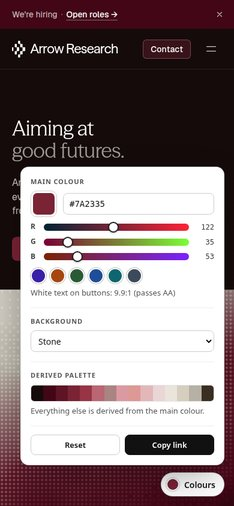
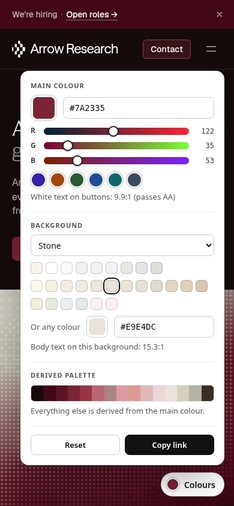
Custom version: more background colours and a free background picker

Changed region(s): [[0.0598, 0.1186, 0.9872, 0.7115]]

diff --git a/custom/palette.js b/custom/palette.js
@@ -27,18 +27,37 @@
     ["Navy", "1f4e99"], ["Teal", "0f6670"], ["Slate", "3d4a5c"],
   ];
   // Each background is the colour that replaces the original page beige
-  // (#f8f3eb); the stone/umber tones follow it. "main" tints it with the main hue.
+  // (#f8f3eb); the stone/umber tones follow it. A number instead of a hex tints
+  // the page with the main colour's hue at that OKLCH chroma. Any other hex can
+  // be chosen with the panel's background picker (state.bg is then the hex).
   var BG_PRESETS = [
-    ["original", "Beige (original)", null],
-    ["warm-grey", "Warm grey", "f3f2ef"],
-    ["grey", "Neutral grey", "f3f3f3"],
-    ["cool-grey", "Cool grey", "f0f2f5"],
-    ["greige", "Greige", "efebe5"],
-    ["stone", "Stone", "e9e4dc"],
-    ["taupe", "Taupe", "e7e0d7"],
-    ["mushroom", "Mushroom", "e1d9ce"],
-    ["kraft", "Kraft brown", "e3d5c3"],
-    ["tinted", "Tinted from main colour", "main"],
+    ["original", "Beige (original)", null, ""],
+    ["white", "White", "ffffff", "Whites and greys"],
+    ["paper", "Paper white", "fafaf8", "Whites and greys"],
+    ["warm-grey", "Warm grey", "f3f2ef", "Whites and greys"],
+    ["grey", "Neutral grey", "f3f3f3", "Whites and greys"],
+    ["cool-grey", "Cool grey", "f0f2f5", "Whites and greys"],
+    ["dove", "Dove grey", "e8e8e6", "Whites and greys"],
+    ["silver", "Silver", "e4e5e7", "Whites and greys"],
+    ["pebble", "Pebble", "dcdcd9", "Whites and greys"],
+    ["ivory", "Ivory", "fbf8ef", "Creams and browns"],
+    ["cream", "Cream", "f6f0e1", "Creams and browns"],
+    ["linen", "Linen", "f2ece2", "Creams and browns"],
+    ["greige", "Greige", "efebe5", "Creams and browns"],
+    ["oat", "Oatmeal", "ede6d9", "Creams and browns"],
+    ["stone", "Stone", "e9e4dc", "Creams and browns"],
+    ["sand", "Sand", "ebe2d1", "Creams and browns"],
+    ["taupe", "Taupe", "e7e0d7", "Creams and browns"],
+    ["mushroom", "Mushroom", "e1d9ce", "Creams and browns"],
+    ["kraft", "Kraft brown", "e3d5c3", "Creams and browns"],
+    ["biscuit", "Biscuit", "dfd0b8", "Creams and browns"],
+    ["tan", "Tan", "d8c7ae", "Creams and browns"],
+    ["khaki", "Khaki", "f1eedc", "Soft tints"],
+    ["sage", "Sage", "e7ebe0", "Soft tints"],
+    ["mist", "Mist blue", "e8eef2", "Soft tints"],
+    ["fog", "Fog", "e5e9ec", "Soft tints"],
+    ["tinted", "Tinted from main colour", 0.012, "From the main colour"],
+    ["tinted-strong", "Tinted from main colour, stronger", 0.03, "From the main colour"],
   ];
 
   // --- colour maths: sRGB <-> OKLab/OKLCH ------------------------------------
@@ -114,12 +133,15 @@
     return out;
   }
 
+  function presetFor(id) { return BG_PRESETS.filter(function (p) { return p[0] === id; })[0]; }
+
   function deriveBackground(id, main) {
-    var preset = BG_PRESETS.filter(function (p) { return p[0] === id; })[0] || BG_PRESETS[0];
+    var value = validHex(id) || (presetFor(id) || BG_PRESETS[0])[2];
     var out = {};
-    if (!preset[2]) { BACKGROUND.forEach(function (k) { out[k] = k; }); return out; }
+    if (!value) { BACKGROUND.forEach(function (k) { out[k] = k; }); return out; }
     var page = ORIG[PAGE];
-    var target = preset[2] === "main" ? [page[0], 0.012, hexToOklch(main)[2]] : hexToOklch(preset[2]);
+    var tint = typeof value === "number";
+    var target = tint ? [page[0], value, hexToOklch(main)[2]] : hexToOklch(value);
     // the other tones keep their lightness offset, chroma ratio and hue offset
     // from the page colour (umber, a dark overlay tint, keeps its lightness)
     BACKGROUND.forEach(function (k) {
@@ -128,7 +150,7 @@
       var C = Math.min(0.08, o[1] * target[1] / page[1]);
       out[k] = oklchToHex(L, C, o[2] + target[2] - page[2]);
     });
-    if (preset[2] !== "main") out[PAGE] = preset[2];
+    if (!tint) out[PAGE] = value;
     return out;
   }
 
@@ -170,7 +192,10 @@
 
   // --- state: ?main=&bg= in the URL, else localStorage, else the original ------------
   function validHex(h) { return typeof h === "string" && /^[0-9a-f]{6}$/i.test(h) ? h.toLowerCase() : null; }
-  function validBg(id) { return BG_PRESETS.some(function (p) { return p[0] === id; }) ? id : null; }
+  function validBg(id) {
+    if (typeof id !== "string") return null;
+    return presetFor(id) ? id : validHex(id.replace("#", ""));
+  }
   function load() {
     var state = { main: DEFAULT.main, bg: DEFAULT.bg };
     try {
@@ -211,9 +236,9 @@
     "h3{margin:0 0 8px;font-size:11px;font-weight:700;letter-spacing:.08em;text-transform:uppercase;color:#555}",
     "section+section{margin-top:16px;padding-top:14px;border-top:1px solid #eee}",
     ".row{display:flex;align-items:center;gap:10px}",
-    "input[type=color]{width:44px;height:44px;padding:0;border:1px solid #ccc;border-radius:10px;background:none;cursor:pointer}",
+    "input[type=color]{flex:none;width:44px;height:44px;padding:0;border:1px solid #ccc;border-radius:10px;background:none;cursor:pointer}",
     "input[type=color]::-webkit-color-swatch-wrapper{padding:3px}input[type=color]::-webkit-color-swatch{border:none;border-radius:7px}",
-    ".hex{flex:1;height:36px;padding:0 10px;border:1px solid #ccc;border-radius:8px;font:500 14px ui-monospace,Menlo,monospace;color:#111}",
+    ".hex{flex:1;min-width:0;height:36px;padding:0 10px;border:1px solid #ccc;border-radius:8px;font:500 14px ui-monospace,Menlo,monospace;color:#111}",
     ".slider{display:grid;grid-template-columns:14px 1fr 34px;align-items:center;gap:8px;margin-top:8px}",
     ".slider b{font-size:12px;color:#444}.slider output{font:12px ui-monospace,Menlo,monospace;text-align:right;color:#333}",
     "input[type=range]{-webkit-appearance:none;appearance:none;width:100%;height:12px;border-radius:6px;margin:0;cursor:pointer}",
@@ -222,6 +247,10 @@
     ".presets{display:flex;flex-wrap:wrap;gap:6px;margin-top:10px}",
     ".presets button{width:26px;height:26px;border-radius:50%;border:2px solid #fff;box-shadow:0 0 0 1px rgba(0,0,0,.25);cursor:pointer;padding:0}",
     ".presets button[aria-pressed=true]{box-shadow:0 0 0 2px #111}",
+    ".bg-swatches{gap:5px}.bg-swatches i{flex-basis:100%;height:0}.bg-swatches button{width:20px;height:20px;border-radius:6px;border:1px solid rgba(0,0,0,.18);box-shadow:none}",
+    ".bg-swatches button[aria-pressed=true]{box-shadow:0 0 0 2px #fff,0 0 0 4px #111}",
+    ".row+.row,.bg-swatches+.row{margin-top:10px}.row .label{flex:0 0 auto;color:#555}",
+    ".row input.small[type=color]{width:36px;height:36px;border-radius:8px}",
     "select{width:100%;height:36px;padding:0 8px;border:1px solid #ccc;border-radius:8px;background:#fff;font-size:14px;color:#111}",
     ".strip{display:grid;grid-template-columns:repeat(15,1fr);height:28px;border-radius:6px;overflow:hidden;border:1px solid rgba(0,0,0,.1)}",
     ".strip span{display:block}",
@@ -245,7 +274,12 @@
       '<div class="row"><input type="color" aria-label="Pick main colour">' +
       '<input class="hex" maxlength="7" spellcheck="false" aria-label="Hex code"></div>' + sliders +
       '<div class="presets"></div><div class="note contrast"></div></section>' +
-      "<section><h3>Background</h3><select></select></section>" +
+      "<section><h3>Background</h3><select></select>" +
+      '<div class="presets bg-swatches"></div>' +
+      '<div class="row"><span class="label">Or any colour</span>' +
+      '<input type="color" class="small bg-picker" aria-label="Pick background colour">' +
+      '<input class="hex bg-hex" maxlength="7" spellcheck="false" aria-label="Background hex code"></div>' +
+      '<div class="note bg-contrast"></div></section>' +
       '<section><h3>Derived palette</h3><div class="strip"></div>' +
       '<div class="note">Everything else is derived from the main colour.</div></section>' +
       '<section class="actions"><button class="reset">Reset</button><button class="primary copy">Copy link</button></section>' +
@@ -255,10 +289,24 @@
     var toggle = $(".toggle"), panel = $(".panel"), picker = $("input[type=color]"), hex = $(".hex");
     var ranges = Array.prototype.slice.call(root.querySelectorAll("input[type=range]"));
     var select = $("select"), strip = $(".strip"), presets = $(".presets");
+    var bgSwatches = $(".bg-swatches"), bgPicker = $(".bg-picker"), bgHex = $(".bg-hex");
 
+    var groups = {};
     BG_PRESETS.forEach(function (p) {
-      var o = document.createElement("option"); o.value = p[0]; o.textContent = p[1]; select.appendChild(o);
+      var o = document.createElement("option"); o.value = p[0]; o.textContent = p[1];
+      if (p[3] && !groups[p[3]]) {
+        groups[p[3]] = document.createElement("optgroup"); groups[p[3]].label = p[3]; select.appendChild(groups[p[3]]);
+      }
+      (groups[p[3]] || select).appendChild(o);
+      var b = document.createElement("button");
+      b.title = p[1]; b.setAttribute("aria-label", p[1]); b.dataset.bg = p[0];
+      b.addEventListener("click", function () { set({ bg: p[0] }); });
+      if (p[0] === "ivory" || p[0] === "khaki") bgSwatches.appendChild(document.createElement("i"));
+      bgSwatches.appendChild(b);
     });
+    var customOpt = document.createElement("option");
+    customOpt.value = "custom"; customOpt.textContent = "Custom colour";
+    select.appendChild(customOpt);
     MAIN_PRESETS.forEach(function (p) {
       var b = document.createElement("button");
       b.title = p[0]; b.setAttribute("aria-label", p[0]); b.style.background = "#" + p[1]; b.dataset.hex = p[1];
@@ -277,10 +325,22 @@
         r.style.background = "linear-gradient(to right,#" + rgbToHex(lo) + ",#" + rgbToHex(hi) + ")";
         r.nextElementSibling.textContent = rgb[i];
       });
-      select.value = state.bg;
+      var custom = !presetFor(state.bg);
+      select.value = custom ? "custom" : state.bg;
+      bgPicker.value = "#" + current[PAGE];
+      if (root.activeElement !== bgHex) bgHex.value = "#" + current[PAGE].toUpperCase();
       Array.prototype.forEach.call(presets.children, function (b) {
         b.setAttribute("aria-pressed", String(b.dataset.hex === state.main));
       });
+      Array.prototype.forEach.call(bgSwatches.querySelectorAll("button"), function (b) {
+        b.style.background = "#" + deriveBackground(b.dataset.bg, state.main)[PAGE];
+        b.setAttribute("aria-pressed", String(b.dataset.bg === state.bg));
+      });
+      var t = contrast(current[INK], current[PAGE]);
+      var bgNote = $(".bg-contrast");
+      bgNote.textContent = "Body text on this background: " + t.toFixed(1) + ":1" +
+        (t >= 4.5 ? "" : " (too low to read comfortably)");
+      bgNote.className = "note bg-contrast" + (t < 4.5 ? " warn" : "");
       strip.innerHTML = BRAND.concat(BACKGROUND).map(function (k) {
         return '<span title="#' + current[k].toUpperCase() + '" style="background:#' + current[k] + '"></span>';
       }).join("");
@@ -313,7 +373,16 @@
         var rgb = hexToRgb(state.main); rgb[+r.dataset.ch] = +r.value; set({ main: rgbToHex(rgb) });
       });
     });
-    select.addEventListener("change", function () { set({ bg: select.value }); });
+    // "Custom colour" starts from the background currently shown
+    select.addEventListener("change", function () {
+      set({ bg: select.value === "custom" ? current[PAGE] : select.value });
+    });
+    bgPicker.addEventListener("input", function () { set({ bg: bgPicker.value.slice(1).toLowerCase() }); });
+    bgHex.addEventListener("input", function () {
+      var v = validHex(bgHex.value.trim().replace("#", ""));
+      if (v) set({ bg: v });
+    });
+    bgHex.addEventListener("blur", render);
     $(".reset").addEventListener("click", function () { set({ main: DEFAULT.main, bg: DEFAULT.bg }); });
     $(".copy").addEventListener("click", function () {
       var btn = this, url = shareUrl(state);

diff --git a/index.html b/index.html
@@ -80,8 +80,9 @@
       <img src="previews/custom.jpg" alt="Home page with the colour panel open">
       <div class="body">
         <h2>Pick your own</h2>
-        <p class="sub">Choose a main colour (picker or RGB sliders) and a background from the
-          dropdown. Every other colour is derived from them, live. "Copy link" shares the result.</p>
+        <p class="sub">Choose a main colour (picker or RGB sliders) and a background: 27 greys,
+          creams, browns and soft tints, or any colour you like. Every other colour is derived from
+          them, live. "Copy link" shares the result.</p>
         <div class="swatches" aria-hidden="true">
           <span style="background:#0F6670"></span><span style="background:#7A2335"></span>
           <span style="background:#3D4A5C"></span><span style="background:#A8460F"></span>
